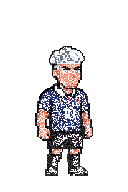
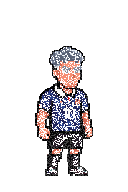
Replace the review page with the Mastered UI hairline fix candidate

Changed region(s): [[0.375, 0.25, 0.6562, 0.375]]

diff --git a/index.html b/index.html
@@ -1,4 +1,4 @@
-<title>UI Final Edge + Hair Fix</title>
+<title>Mastered UI Hairline Final Fix</title>
 <style>
 :root{color-scheme:dark light;--bg:#0f0f14;--panel:#1a1a21;--line:#2c2c36;
  --ink:#eef0f6;--dim:#9aa0ad;--gold:#e8b544;--accent:#a9d6ff}
@@ -14,82 +14,66 @@ h3{font-size:12px;color:var(--dim);margin:28px 0 10px;text-transform:uppercase;
 .sha{color:var(--dim);font-size:13px;margin:0 0 4px;font-variant-numeric:tabular-nums}
 code{background:var(--panel);border:1px solid var(--line);border-radius:4px;
  padding:1px 6px;font-size:12.5px}
-section{margin-top:56px;padding-top:28px;border-top:1px solid var(--line)}
+section{margin-top:52px;padding-top:26px;border-top:1px solid var(--line)}
 .row{display:flex;flex-wrap:wrap;gap:14px;align-items:flex-start}
 figure{margin:0;background:var(--panel);border:1px solid var(--line);
  border-radius:10px;padding:10px}
-figcaption{color:var(--dim);font-size:11.5px;margin-top:8px;max-width:44ch}
+figcaption{color:var(--dim);font-size:11.5px;margin-top:8px;max-width:46ch}
 img{image-rendering:pixelated;display:block;border-radius:4px;max-width:100%;height:auto}
 .lead{max-width:74ch;color:var(--dim);margin:22px 0 0}
 </style>
-<h1>Current Review — UI Final Edge + Hair Fix</h1>
-<p class="sha">Commit <code>29b9295</code></p>
-<p class="lead">The aura is now built against each animation frame's own silhouette, so
-the dark ring no longer appears once the body moves — 0 dark pixels on every frame of
-every UI sequence. Mastered's hair is fully white/silver with no black fill.</p>
+<h1>Current Review — Mastered UI Hairline Final Fix</h1>
+<p class="sha">Commit <code>c7e86d8</code></p>
+<p class="lead">Mastered now uses Sign's hair build unchanged — same hairline, same
+silhouette — recoloured to silver rather than flat white. The eyebrows are silver too,
+and the serious brow angle is kept. Nothing else was touched.</p>
+
 <section>
-<h2>Hair check</h2>
-<p class="sub">Sign black &middot; Mastered fully white/silver &mdash; 13&times;</p>
-<div class="row"><figure><img src="v4/seq/detail/hair_13x.png" width="620" alt="hair comparison">
-<figcaption>Only the outer contour stays dark on Mastered &mdash; that is the sprite's
-line art, shared with the rest of the character. No black hair fill remains.</figcaption>
-</figure></div>
-</section><section>
-<h2>1. Ultra Instinct Sign</h2>
-<p class="sub">Black hair, calm and forward-facing</p>
+<h2>Hairline and eyebrows</h2>
+<p class="sub">Sign &middot; Mastered &mdash; 15&times;</p>
+<div class="row"><figure><img src="v4/seq/detail/hairline_brows_15x.png" width="680"
+alt="hairline and brow comparison">
+<figcaption>Same hair build and the same hairline on both — Mastered's is recoloured,
+not redrawn. Hairline offsets match Sign frame for frame across the loop
+(15,15,15,15,14,14,14,15). Eyebrows are silver; the serious angle is Mastered's own.
+</figcaption></figure></div>
 <div class="row">
-<figure><img src="v4/seq/detail/ui_sign_edge_9x.png" width="500" alt="ui_sign edge">
-<figcaption>9&times; at mid-loop, where the dark ring used to be worst &mdash; energy
-sits directly against the silhouette</figcaption></figure>
+<figure><img src="v4/seq/detail/mastered_canonical_5x.png" width="300" alt="Mastered canonical">
+<figcaption>Canonical form</figcaption></figure>
+<figure><img src="v4/seq/detail/mastered_edge_9x.png" width="440" alt="Mastered edge">
+<figcaption>9&times; at mid-loop &mdash; energy still sits directly against the
+silhouette, no dark gap</figcaption></figure>
 </div>
-<h3>Idle</h3>
+</section>
+
+<section>
+<h2>Mastered Ultra Instinct — idle</h2>
 <div class="row">
-<figure><img src="v4/seq/ui_sign_idle/ui_sign_idle_composite.gif" width="256" alt="ui_sign_idle">
-<figcaption>Normal speed</figcaption></figure>
-<figure><img src="v4/seq/ui_sign_idle/ui_sign_idle_composite_slow.gif" width="256" alt="ui_sign_idle slow">
-<figcaption>Slow</figcaption></figure>
-</div>
-<h3>Blue Evolved &rarr; UI Sign &mdash; 17 frames</h3>
-<div class="row">
-<figure><img src="v4/seq/blue_evolved_to_ui_sign/blue_evolved_to_ui_sign_composite.gif" width="256" alt="blue_evolved_to_ui_sign">
-<figcaption>Normal speed</figcaption></figure>
-<figure><img src="v4/seq/blue_evolved_to_ui_sign/blue_evolved_to_ui_sign_composite_slow.gif" width="256" alt="blue_evolved_to_ui_sign slow">
-<figcaption>Slow</figcaption></figure>
-</div>
-<h3>Stills</h3>
-<div class="row">
-<figure><img src="v4/seq/detail/ui_sign_still_0_4x.png" width="290" alt="ui_sign still 0">
-<figcaption>Frame 00</figcaption></figure>
-<figure><img src="v4/seq/detail/ui_sign_still_4_4x.png" width="290" alt="ui_sign still 4">
-<figcaption>Frame 04 &mdash; mid-loop</figcaption></figure>
-</div>
-</section><section>
-<h2>2. Mastered Ultra Instinct</h2>
-<p class="sub">Hair now fully white/silver; Sign's animation, serious brow</p>
-<div class="row">
-<figure><img src="v4/seq/detail/mastered_ui_edge_9x.png" width="500" alt="mastered_ui edge">
-<figcaption>9&times; at mid-loop, where the dark ring used to be worst &mdash; energy
-sits directly against the silhouette</figcaption></figure>
-</div>
-<h3>Idle</h3>
-<div class="row">
-<figure><img src="v4/seq/mastered_ui_idle/mastered_ui_idle_composite.gif" width="256" alt="mastered_ui_idle">
-<figcaption>Normal speed</figcaption></figure>
-<figure><img src="v4/seq/mastered_ui_idle/mastered_ui_idle_composite_slow.gif" width="256" alt="mastered_ui_idle slow">
-<figcaption>Slow</figcaption></figure>
-</div>
-<h3>UI Sign &rarr; Mastered UI &mdash; 17 frames</h3>
-<div class="row">
-<figure><img src="v4/seq/ui_sign_to_mastered_ui/ui_sign_to_mastered_ui_composite.gif" width="256" alt="ui_sign_to_mastered_ui">
-<figcaption>Normal speed</figcaption></figure>
-<figure><img src="v4/seq/ui_sign_to_mastered_ui/ui_sign_to_mastered_ui_composite_slow.gif" width="256" alt="ui_sign_to_mastered_ui slow">
-<figcaption>Slow</figcaption></figure>
+<figure><img src="v4/seq/mastered_ui_idle/mastered_ui_idle_composite.gif" width="256"
+alt="Mastered idle"><figcaption>Normal speed</figcaption></figure>
+<figure><img src="v4/seq/mastered_ui_idle/mastered_ui_idle_composite_slow.gif" width="256"
+alt="Mastered idle slow"><figcaption>Slow</figcaption></figure>
+<figure><img src="v4/seq/mastered_ui_idle/mastered_ui_idle_body.gif" width="256"
+alt="Mastered body only"><figcaption>Body only</figcaption></figure>
 </div>
 <h3>Stills</h3>
 <div class="row">
-<figure><img src="v4/seq/detail/mastered_ui_still_0_4x.png" width="290" alt="mastered_ui still 0">
+<figure><img src="v4/seq/detail/mastered_still_0_4x.png" width="290" alt="still 0">
 <figcaption>Frame 00</figcaption></figure>
-<figure><img src="v4/seq/detail/mastered_ui_still_4_4x.png" width="290" alt="mastered_ui still 4">
+<figure><img src="v4/seq/detail/mastered_still_4_4x.png" width="290" alt="still 4">
 <figcaption>Frame 04 &mdash; mid-loop</figcaption></figure>
 </div>
+</section>
+
+<section>
+<h2>UI Sign &rarr; Mastered UI — transformation</h2>
+<div class="row">
+<figure><img src="v4/seq/ui_sign_to_mastered_ui/ui_sign_to_mastered_ui_composite.gif"
+width="256" alt="transformation"><figcaption>Normal speed &mdash; 17 frames</figcaption></figure>
+<figure><img src="v4/seq/ui_sign_to_mastered_ui/ui_sign_to_mastered_ui_composite_slow.gif"
+width="256" alt="transformation slow"><figcaption>Slow</figcaption></figure>
+</div>
+<div class="row scroll"><figure>
+<img src="v4/seq/ui_sign_to_mastered_ui/ui_sign_to_mastered_ui_strip.png" alt="strip">
+<figcaption>All 17 frames</figcaption></figure></div>
 </section>
